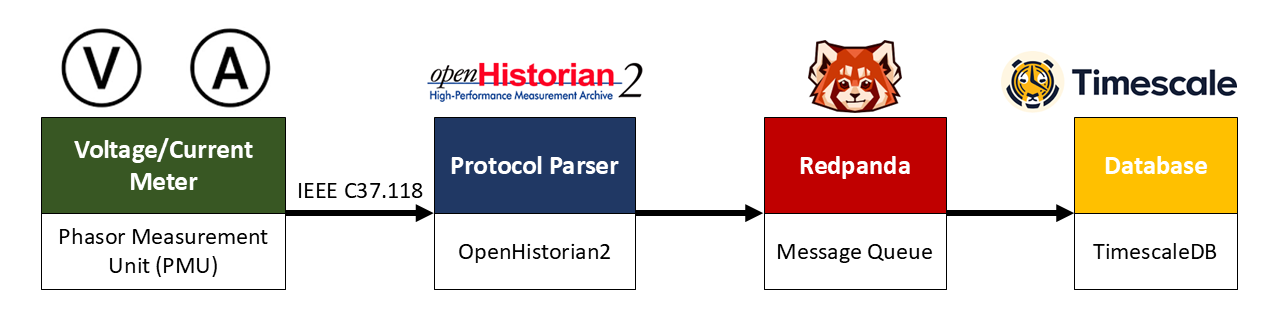
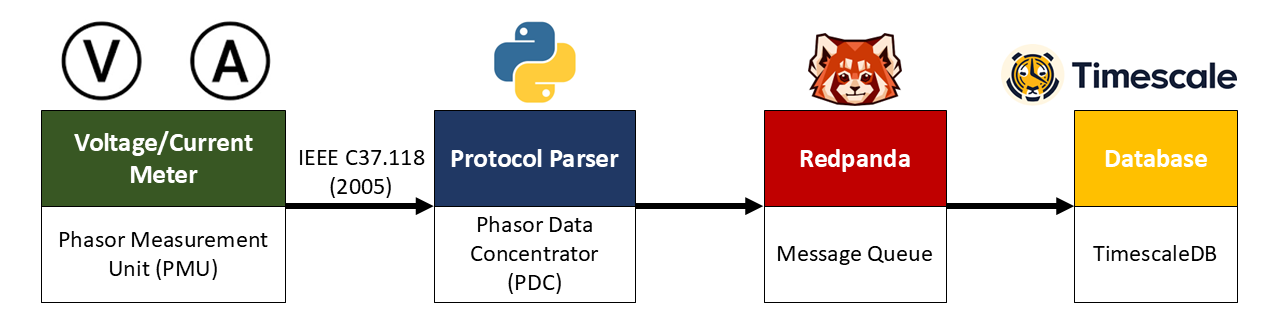
Update README to reflect project focus on PMUs and enhance study guidelines

diff --git a/Project/Data-Bridging/README.md b/Project/Data-Bridging/README.md
@@ -1,19 +1,31 @@
-# Data Bridging from OpenHistorian to Redpanda
-This project is designed to bridge data from OpenHistorian to Redpanda, specifically focusing on phasor measurement unit (PMU) data. The goal is to facilitate the transfer and processing of PMU data in a real-time streaming environment.
+# Data Bridging from PMUs to Redpanda
+This project is designed to bridge data from phasor measurement units (PMUs) to Redpanda. The goal is to facilitate the transfer and processing of PMU data in a real-time streaming environment.
 
 ## Overview
-The data bridging process involves extracting PMU data from OpenHistorian, transforming it into a suitable format, and then loading it into Redpanda for real-time analytics and processing.
+The data bridging process involves extracting PMU data, transforming it into a suitable format, and then loading it into Redpanda for real-time analytics and processing.
 
 ![Overview Diagram](./Assets/overview.png)
 
-## Phasor measurement unit (PMU)
-PMUs are devices used to measure the electrical parameters on an electricity grid. They provide real-time data on the grid's status, which is crucial for monitoring and managing the grid effectively.
+- **Phasor Measurement Unit (PMU)**: A device used to measure the electrical parameters on an electricity grid in real-time data. It sends data over the network in C37.118 format.
 
-## OpenHistorian2
-OpenHistorian2 is an open-source time-series data historian designed for high-performance data ingestion and retrieval. It includes protocol parser using to decode IEEE C37.118.
+- **Phasor Data Concentrator (PDC)**: A system that collects data from multiple PMUs and aggregates it for further processing or transmission.
 
-## Redpanda
-Redpanda is a high-performance streaming platform that is compatible with Apache Kafka. It is designed for real-time data processing and can handle large volumes of data with low latency.
+- **Redpanda**: A high-performance streaming platform that is designed for real-time data processing.
 
-## TimescaleDB
-TimescaleDB is a time-series database built on PostgreSQL. It is optimized for storing and querying time-series data, making it a suitable choice for applications that require historical data analysis alongside real-time processing.
+- **TimescaleDB**: A time-series database built on PostgreSQL that is suitable for real-time data ingestion and querying.
+
+## Study Guideline
+To effectively implement the data bridging project, you should review the following topics:
+
+### 1. Basic Networking
+- Understand how IP addressing works.
+- Understand about port numbers and their significance in network communication.
+
+### 2. Docker
+- Understand how to build Docker images for your applications.
+- Understand how to create Docker containers (including port exposure).
+
+### 3. Other
+- Python programming
+- Docker Compose
+- Basic SQL queries (optional)
